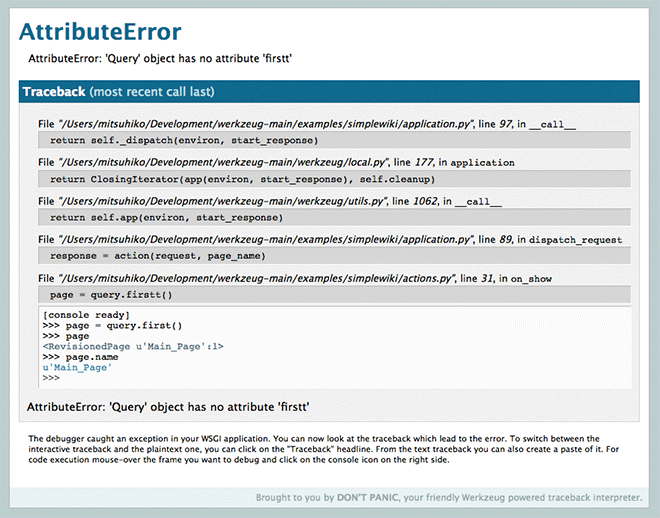
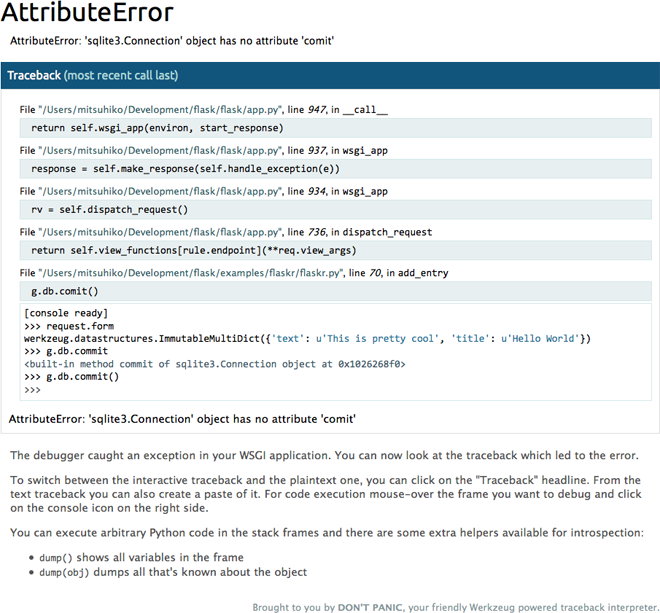
More debugger updates for style

diff --git a/werkzeug/debug/shared/style.css b/werkzeug/debug/shared/style.css
@@ -16,7 +16,7 @@ textarea     { font-family: 'Consolas', 'Monaco', 'Bitstream Vera Sans Mono',
 
 div.debugger { text-align: left; padding: 12px; margin: auto;
                background-color: white; }
-h1           { color: #11557C; font-size: 30px; margin: 0 0 0.3em 0; }
+h1           { font-size: 36px; margin: 0 0 0.3em 0; }
 div.detail p { margin: 0 0 8px 13px; font-size: 14px; }
 div.explanation { margin: 20px 13px; font-size: 15px; color: #555; }
 div.footer   { font-size: 13px; text-align: right; margin: 30px 0;
@@ -97,11 +97,11 @@ pre.console div.box pre { border: none; }
 pre.console div.box pre.help { background-color: white; }
 pre.console div.box pre.help:hover { cursor: default; }
 pre.console table tr { vertical-align: top; }
-div.box table.source { background-color: #fafafa;
-                       border-collapse: collapse; width: 100%; }
-div.box table.source td { border-top: 1px solid #eee; padding: 4px 0 4px 10px; }
-div.box table.source td.lineno { color: #999; padding-right: 10px; width: 1px; }
-div.box table.source tr.in-frame { background-color: #D6EEFF; }
-div.box table.source tr.current { background-color: white; }
-div.sourceview { max-height: 400px; overflow: auto; border: 1px solid #ccc; }
 div.console { border: 1px solid #ccc; padding: 4px; background-color: #fafafa; }
+
+div.box table.source { border-collapse: collapse; width: 100%; background: #E8EFF0 }
+div.box table.source td { border-top: 1px solid #E8EFF0; padding: 4px 0 4px 10px; }
+div.box table.source td.lineno { color: #999; padding-right: 10px; width: 1px; }
+div.box table.source tr.in-frame { background-color: white; }
+div.box table.source tr.current { background-color: #EEF7F8; color: #23707E; }
+div.sourceview { max-height: 400px; overflow: auto; border: 1px solid #ccc; }

diff --git a/werkzeug/debug/shared/debugger.js b/werkzeug/debug/shared/debugger.js
@@ -192,6 +192,6 @@ function focusSourceBlock() {
       break
     line = tmp;
   }
-  var container = $('div.sourceview')[0];
-  container.scrollTop = line.offset().top - container.offsetTop;
+  var container = $('div.sourceview');
+  container.scrollTop(line.offset().top);
 }
